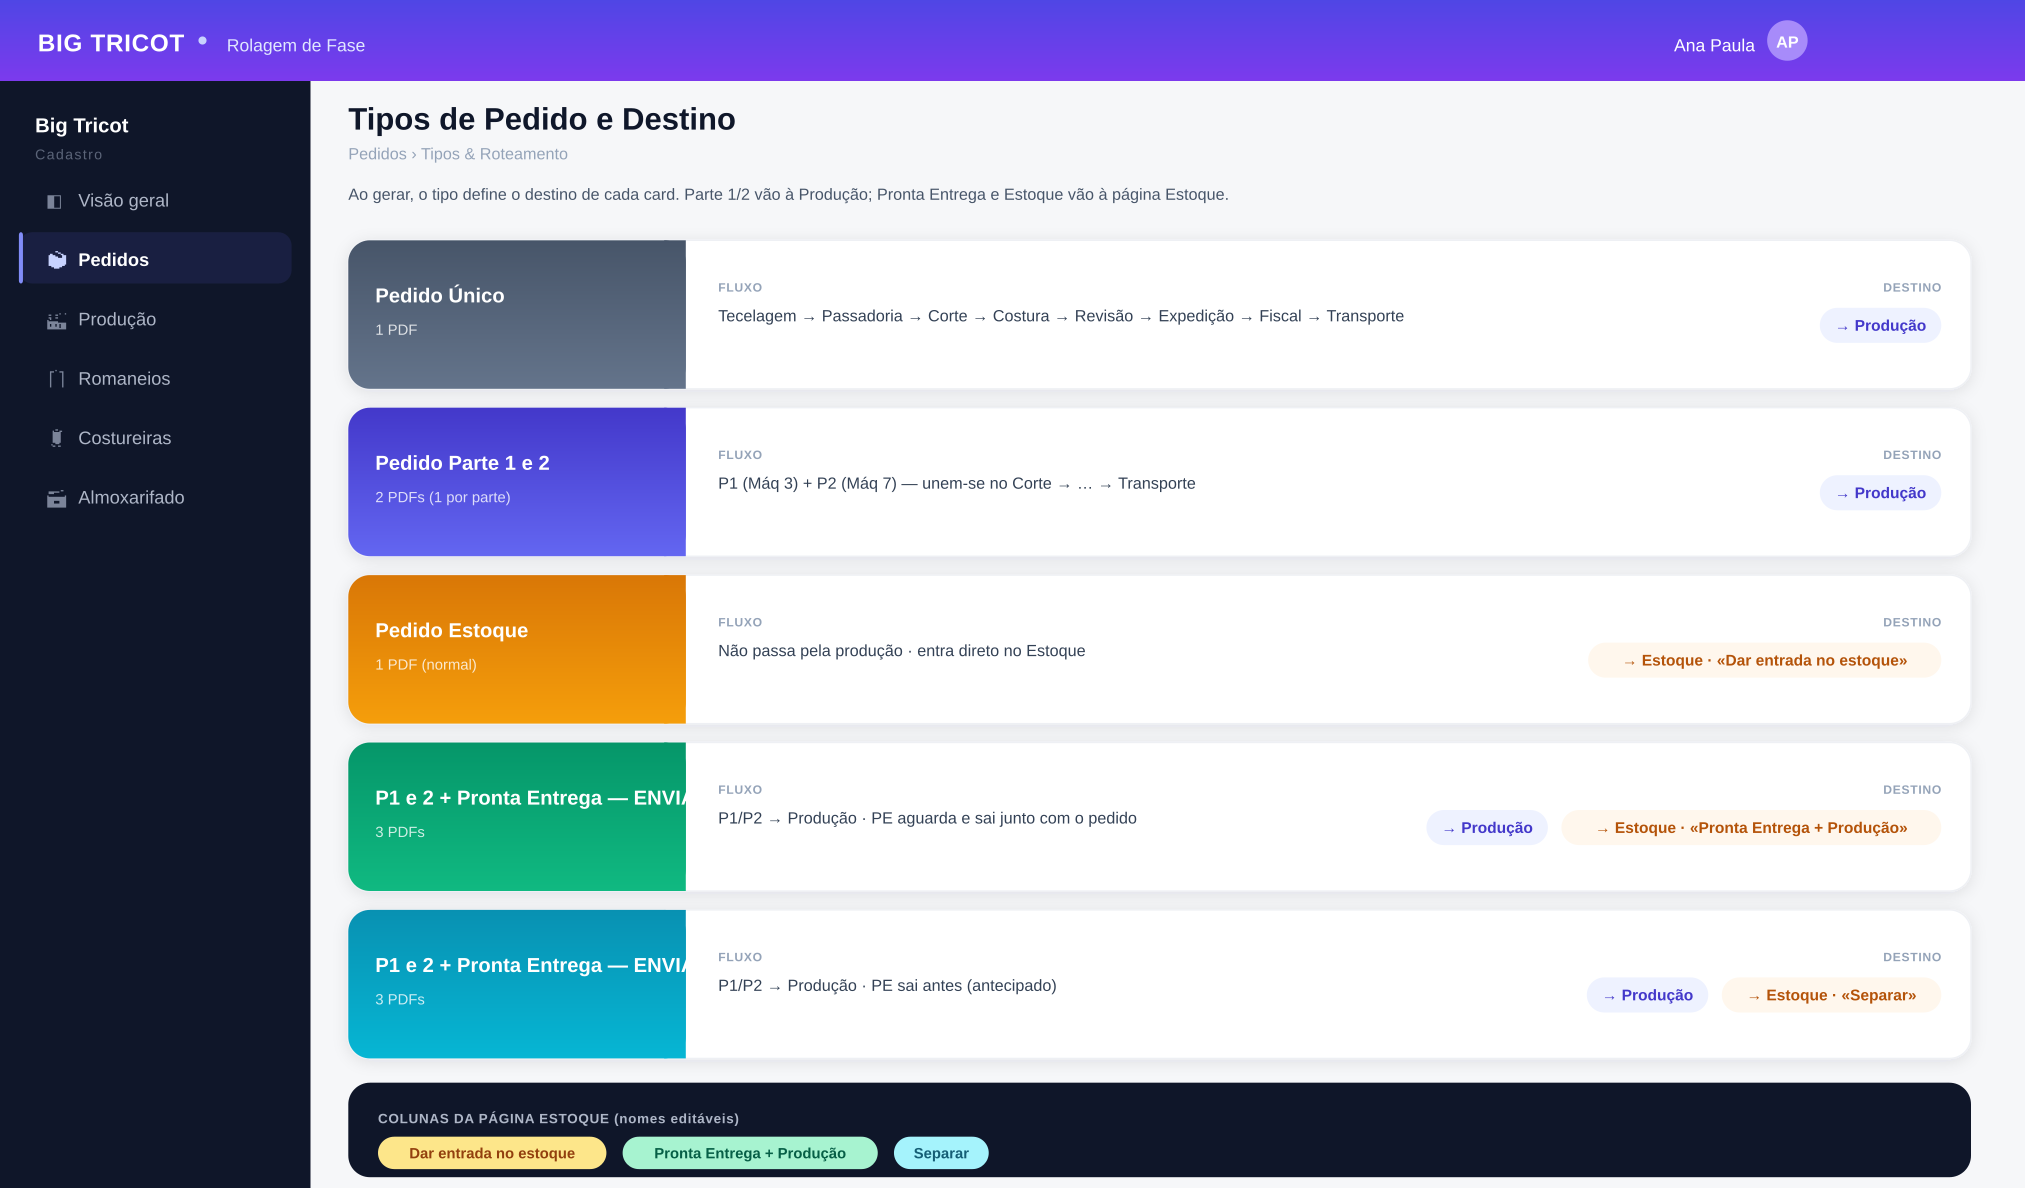
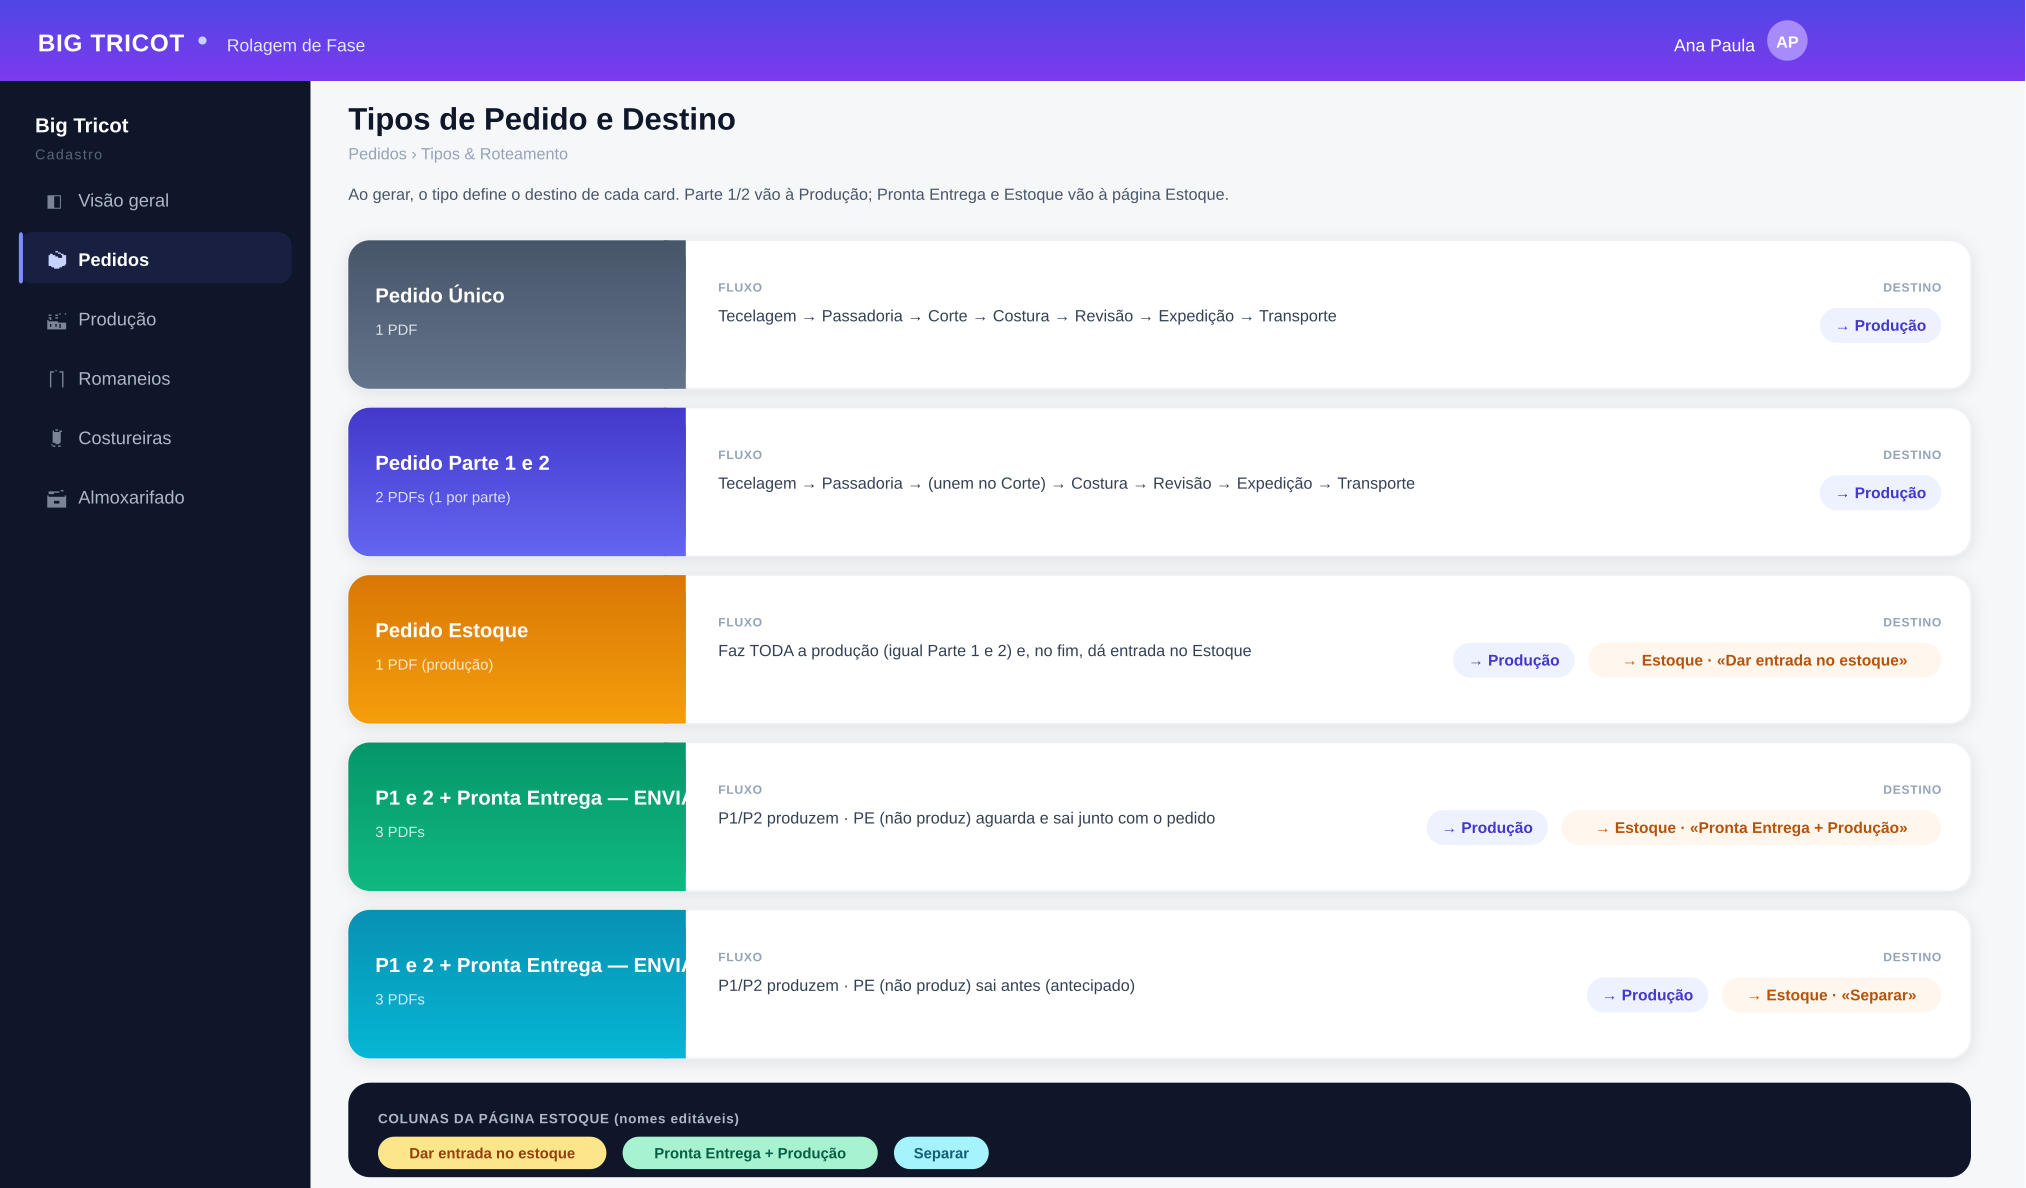
fix: pedido de Estoque faz producao completa e da entrada no estoque; flow Parte 1/2
Corrige roteamento: so Pronta Entrega pula a producao. Estoque produz tudo
(igual Parte 1 e 2) e entra no estoque no fim. Atualiza tela e docs/13.

Claude-Session: https://claude.ai/code/session_01XdKmwhB2iKVzR9dcT8XvFF

diff --git a/scripts/gen_tipos_destino.py b/scripts/gen_tipos_destino.py
@@ -67,11 +67,11 @@ PROD=("→ Produção","#eef2ff","#4338ca")
 def EST(col): return (f"→ Estoque · «{col}»","#fff7ed","#b45309")
 
 rows=[
- ("uni","Pedido Único","1 PDF","Tecelagem → Passadoria → Corte → Costura → Revisão → Expedição → Fiscal → Transporte",[PROD]),
- ("pp","Pedido Parte 1 e 2","2 PDFs (1 por parte)","P1 (Máq 3) + P2 (Máq 7) — unem-se no Corte → … → Transporte",[PROD]),
- ("est","Pedido Estoque","1 PDF (normal)","Não passa pela produção · entra direto no Estoque",[EST("Dar entrada no estoque")]),
- ("pej","P1 e 2 + Pronta Entrega — ENVIAR JUNTO","3 PDFs","P1/P2 → Produção · PE aguarda e sai junto com o pedido",[PROD,EST("Pronta Entrega + Produção")]),
- ("pes","P1 e 2 + Pronta Entrega — ENVIAR SEPARADO","3 PDFs","P1/P2 → Produção · PE sai antes (antecipado)",[PROD,EST("Separar")]),
+ ("uni","Pedido Único","1 PDF","Tecelagem → Passadoria → Corte → Costura → Revisão → Expedição → Transporte",[PROD]),
+ ("pp","Pedido Parte 1 e 2","2 PDFs (1 por parte)","Tecelagem → Passadoria → (unem no Corte) → Costura → Revisão → Expedição → Transporte",[PROD]),
+ ("est","Pedido Estoque","1 PDF (produção)","Faz TODA a produção (igual Parte 1 e 2) e, no fim, dá entrada no Estoque",[PROD,EST("Dar entrada no estoque")]),
+ ("pej","P1 e 2 + Pronta Entrega — ENVIAR JUNTO","3 PDFs","P1/P2 produzem · PE (não produz) aguarda e sai junto com o pedido",[PROD,EST("Pronta Entrega + Produção")]),
+ ("pes","P1 e 2 + Pronta Entrega — ENVIAR SEPARADO","3 PDFs","P1/P2 produzem · PE (não produz) sai antes (antecipado)",[PROD,EST("Separar")]),
 ]
 yy=178
 for gk,tn,np,fl,ds in rows:

diff --git a/docs/13-PEDIDOS-GERACAO-E-CRM.md b/docs/13-PEDIDOS-GERACAO-E-CRM.md
@@ -1,5 +1,17 @@
 # 13 — Geração de Pedidos (PDF por parte) + Integração CRM
 
+## 0. Roteamento por tipo de pedido (aprovado)
+
+| Tipo | Fluxo / Destino |
+|------|-----------------|
+| **Único** | Tecelagem → Passadoria → Corte → Costura → Revisão → Expedição → Transporte |
+| **Parte 1 e 2** | Tecelagem → Passadoria (separadas) → **unem no Corte** → Costura → Revisão → Expedição → Transporte |
+| **Estoque** | **Faz toda a produção** (igual Parte 1 e 2) e, no fim, **dá entrada no Estoque** (coluna *Dar entrada no estoque*) |
+| **P1+P2 + Pronta Entrega (junto)** | P1/P2 produzem · **PE não produz** → Estoque (coluna *Pronta Entrega + Produção*) → sai junto |
+| **P1+P2 + Pronta Entrega (separado)** | P1/P2 produzem · **PE não produz** → Estoque (coluna *Separar*) → sai antes |
+
+> Apenas a **Pronta Entrega** não passa pela produção. Colunas do Estoque (editáveis): *Dar entrada no estoque · Pronta Entrega + Produção · Separar*.
+
 ## 1. Regras de geração da Ordem (aprovadas)
 
 - O sistema importa o **PDF do ERP** (preservado) → lê por OCR → conferência → gera os PDFs padronizados.
